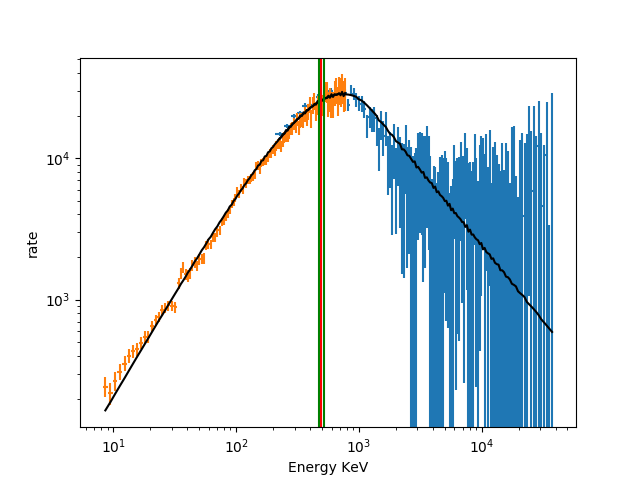
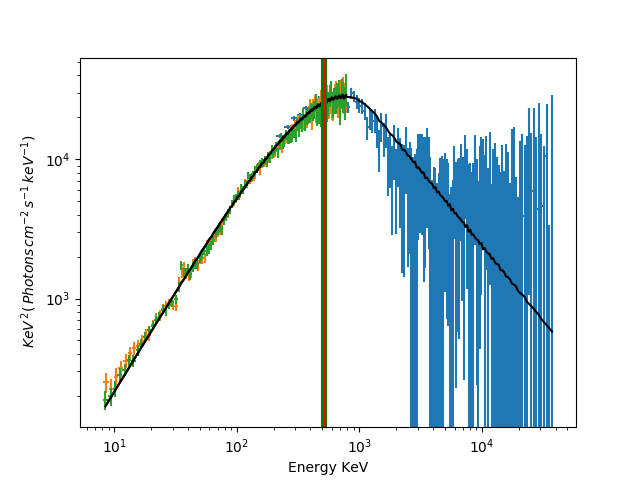
添加流量计算

diff --git a/xspec_all/xspec_makephaI/shiyan_for_xspec2.py b/xspec_all/xspec_makephaI/shiyan_for_xspec2.py
@@ -7,8 +7,8 @@ savedir = '/home/laojin/shiyan/xspec_all/xspec_makephaI/'
 if(os.path.exists(savedir) == False):
 	os.makedirs(savedir)
 
-#brightdet = [,'A_slice_bn190114873_n7.pha','A_slice_bn190114873_n4.pha']
-brightdet = ['A_slice_bn190114873_b1.pha','A_slice_bn190114873_n7.pha']
+brightdet = ['A_slice_bn190114873_b1.pha','A_slice_bn190114873_n7.pha','A_slice_bn190114873_n4.pha']
+#brightdet = ['A_slice_bn190114873_b1.pha','A_slice_bn190114873_n7.pha']
 
 #rsplist = ['glg_cspec_n7_bn190114873_v02.rsp','glg_cspec_b1_bn190114873_v02.rsp','glg_cspec_n4_bn190114873_v02.rsp']
 #baselist = ['A_slice_bn190114873_n7.bkg','A_slice_bn190114873_b1.bkg','A_slice_bn190114873_n4.bkg']
@@ -42,7 +42,8 @@ Fit.perform()#运行拟合
 
 Fit.error('3.0 3')
 Fit.perform()
-
+AllModels.calcFlux("8. 40000.0 err") #参数需要一个能量的范围，之前在拟合光谱时我们设置了一个范围，我们暂时用它。
+#AllModels.calcFlux('1:**-200.,40000.0,err-** 2-3:**-8.,800.,err-**')#不能这么用
 par3=AllModels(1)(3)#第一个模型的第三个参数
 print('$$$$$$$$$$$$$$$$$$$$$$$$$$$$$$$$$$$$$$$$$$$$$$$$$$$$$$$')
 print(par3.values)
@@ -51,10 +52,20 @@ value = par3.values[0]
 value_arr1,value_arr2,ffff = par3.error
 print('$$$$$$$$$$$$$$$$$$$$$$$$$$$$$$$$$$$$$$$$$$$$$$$$$$$$$$$')
 
+#AllModels.calcFlux(".1 10.0 err")
+#AllModels.calcLumin(".1 10. .05 err")
+
+flux = AllData(1).flux              #计算流量，‘1’代表第一个光谱的流量
+#lumin = AllModels(1).lumin
+print('1 flux:',list(flux))               #流量，流量下界，流量上界，光子数，光子数下，光子数上
+#print('lumin:',lumin)
+print('$$$$$$$$$$$$$$$$$$$$$$$$$$$$$$$$$$$$$$$$$$$$$$$$$$$$$$$')
+
+'''
 Plot.device='/xs'
 Plot.xAxis='keV'
 Plot.yLog=True
-
+'''
 Plot('eeufspec')
 
 for i in range(len(brightdet)):
